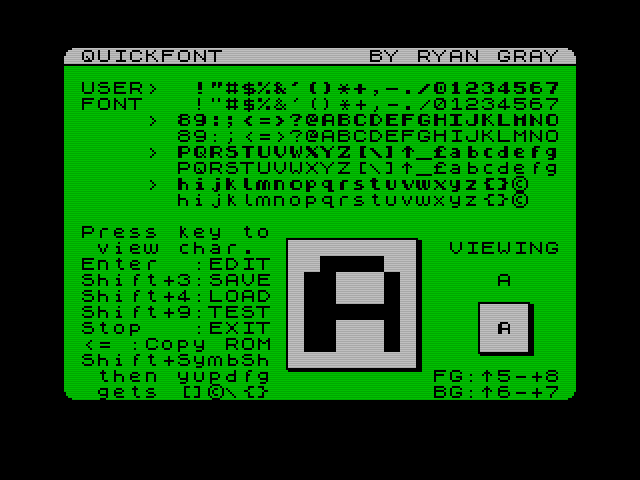
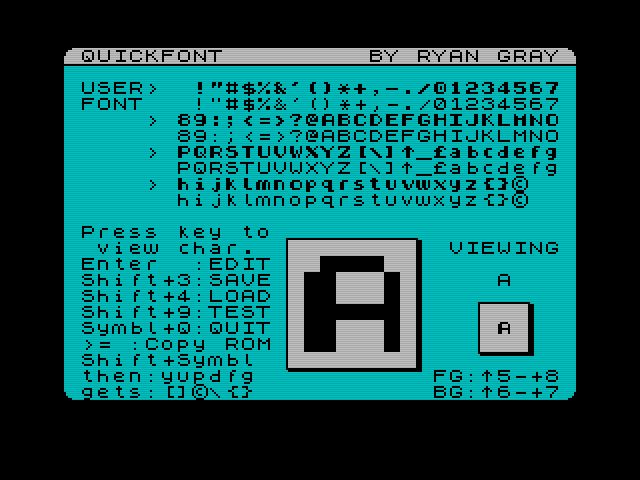
Version 2.2c - 16 August 2022 - Added changing the app background color with `shift+1` and `shift+2`. - Added caps lock toggling in test mode. - Fixed not zeroing the d() array when using the clear all bits function, which was scrambling the subsequent editing.

diff --git a/README.md b/README.md
@@ -114,6 +114,7 @@ The keys in view mode are:
     Key            Function
 
     Enter          Go into edit mode for the current character
+    Shift+1 and 2  Change the application background color
     Shift+3        Save the font to tape
     Shift+4        Load a font from tape
     Shift+5 or 8   Change the preview box background color
@@ -167,6 +168,16 @@ Then press `STOP` (`symbol shift` + `a`) to quit and return to the view mode.
 
 You can access the extended mode characters here just like you do in view mode
 as described above.
+
+The keys in edit mode are:
+
+    Key            Function
+
+    Shift+2        Toggle caps lock
+    Shift+0        Backspace delete
+    Shift+Symbol   Enter a one-keypress extended mode to get the characters
+          Shift      [ ] ~| \ { } and copyright by then pressing y u a s d f g or p
+
 
 ## Loading
 
@@ -286,3 +297,9 @@ font. Now the character offset and a$ location are just POKEd into the MC where
 the addresses are used since they are now only referenced once. Changed the MC
 loader to print all the hex digits then invert each pair as it loads the bytes
 to give a progress bar effect. 
+
+### Version 2.2c - 16 August 2022
+Added changing the app background color with `shift+1` and `shift+2`.
+Added caps lock toggling in test mode.
+Fixed not zeroing the d() array when using the clear all bits function, which
+was scrambling the subsequent editing.
